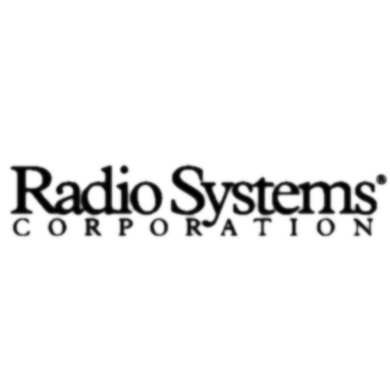
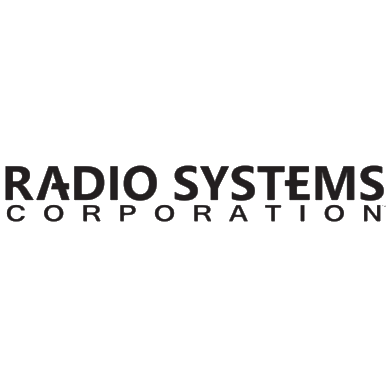
add Radio Systems & Comcast to sponsors

Changed region(s): [[0.0, 0.4, 1.0, 0.6154]]

diff --git a/sponsors/index.html b/sponsors/index.html
@@ -211,7 +211,40 @@
               <h3 class=text-center>Leidos</h3>
               <p class=text-center>Leidos works with the federal government to provide technical, scientific, and engineering services.</p><br></br>
             </div>
-            <div class="col-md-4 col-sm-4 col-xs-12">
+			            <div class="col-md-4 col-sm-4 col-xs-12">
+              <div class=portrait-wrapper>
+                <center>
+                  <a href="http://corporate.comcast.com/" target=_blank>
+                    <img class=img-responsive src="sponsors/cnbcu.png">
+                  </a>
+                </center>
+              </div>
+              <h3 class=text-center>Comcast NBCUniversal</h3>
+              <p class=text-center>Comcast NBCUniversal is a global media &amp; technology company that focuses on video, cable TV, and high speed internet.</p><br></br>
+            </div>
+			<div class="col-md-4 col-sm-4 col-xs-12">
+               <div class=portrait-wrapper>
+                 <center>
+                   <a href="http://petsafe.net" target=_blank>
+                     <img class=img-responsive src="sponsors/rs.png">
+                   </a>
+                 </center>
+               </div>
+               <h3 class=text-center>Radio Systems</h3>
+               <p class=text-center>Radio Systems Corporation owns pet brands like PetSafe and Invisible Fence and are based in Knoxville.</p>
+             </div>
+			 			<div class="col-md-4 col-sm-4 col-xs-12 pull-right">
+              <div class=portrait-wrapper>
+                <center>
+                  <a href="http://cns-llc.us/" target=_blank>
+                    <img class=img-responsive src="sponsors/cns.png">
+                  </a>
+                </center>
+              </div>
+              <h3 class=text-center>Consolidated Nuclear Security</h3>
+              <p class=text-center>Consolidated Nuclear Security operates the Y-12 National Security Complex.</p>
+            </div>
+            <div class="col-md-4 col-sm-4 col-xs-12 pull-right">
               <div class=portrait-wrapper>
                 <center>
                   <a href="http://pilotflyingj.com" target=_blank>
@@ -221,17 +254,6 @@
               </div>
               <h3 class=text-center>Pilot Flying J</h3>
               <p class=text-center>Pilot Flying J operates truck stops and gas stations across the United States.</p><br></br>
-            </div>
-            <div class="col-md-4 col-sm-4 col-xs-12">
-              <div class=portrait-wrapper>
-                <center>
-                  <a href="http://cns-llc.us/" target=_blank>
-                    <img class=img-responsive src="sponsors/cns.png">
-                  </a>
-                </center>
-              </div>
-              <h3 class=text-center>CNS</h3>
-              <p class=text-center>Consolidated Nuclear Security operates the Y-12 National Security Complex.</p>
             </div>
 			 <div class="col-md-4 col-sm-4 col-xs-12 pull-right">
               <div class=portrait-wrapper>
@@ -244,7 +266,7 @@
               <h3 class=text-center>Salon Studios</h3>
               <p class=text-center>Salon Studios provides quality hair and beauty services in Tuscaloosa, Alabama.</p>
             </div>
-			  <div class="col-md-4 col-sm-4 col-xs-12 pull-right">
+			  <div class="col-md-4 col-sm-4 col-xs-12">
               <div class=portrait-wrapper>
                 <center>
                   <a href="http://steelplatefab.com" target=_blank>
@@ -255,6 +277,7 @@
               <h3 class=text-center>Steel Plate Fabricators</h3>
               <p class=text-center>Steel Plate Fabricators provide fabrication and welding services in Knoxville.</p>
             </div>
+
 			<div class="col-md-4 col-sm-4 col-xs-12">
                <div class=portrait-wrapper>
                  <center>
